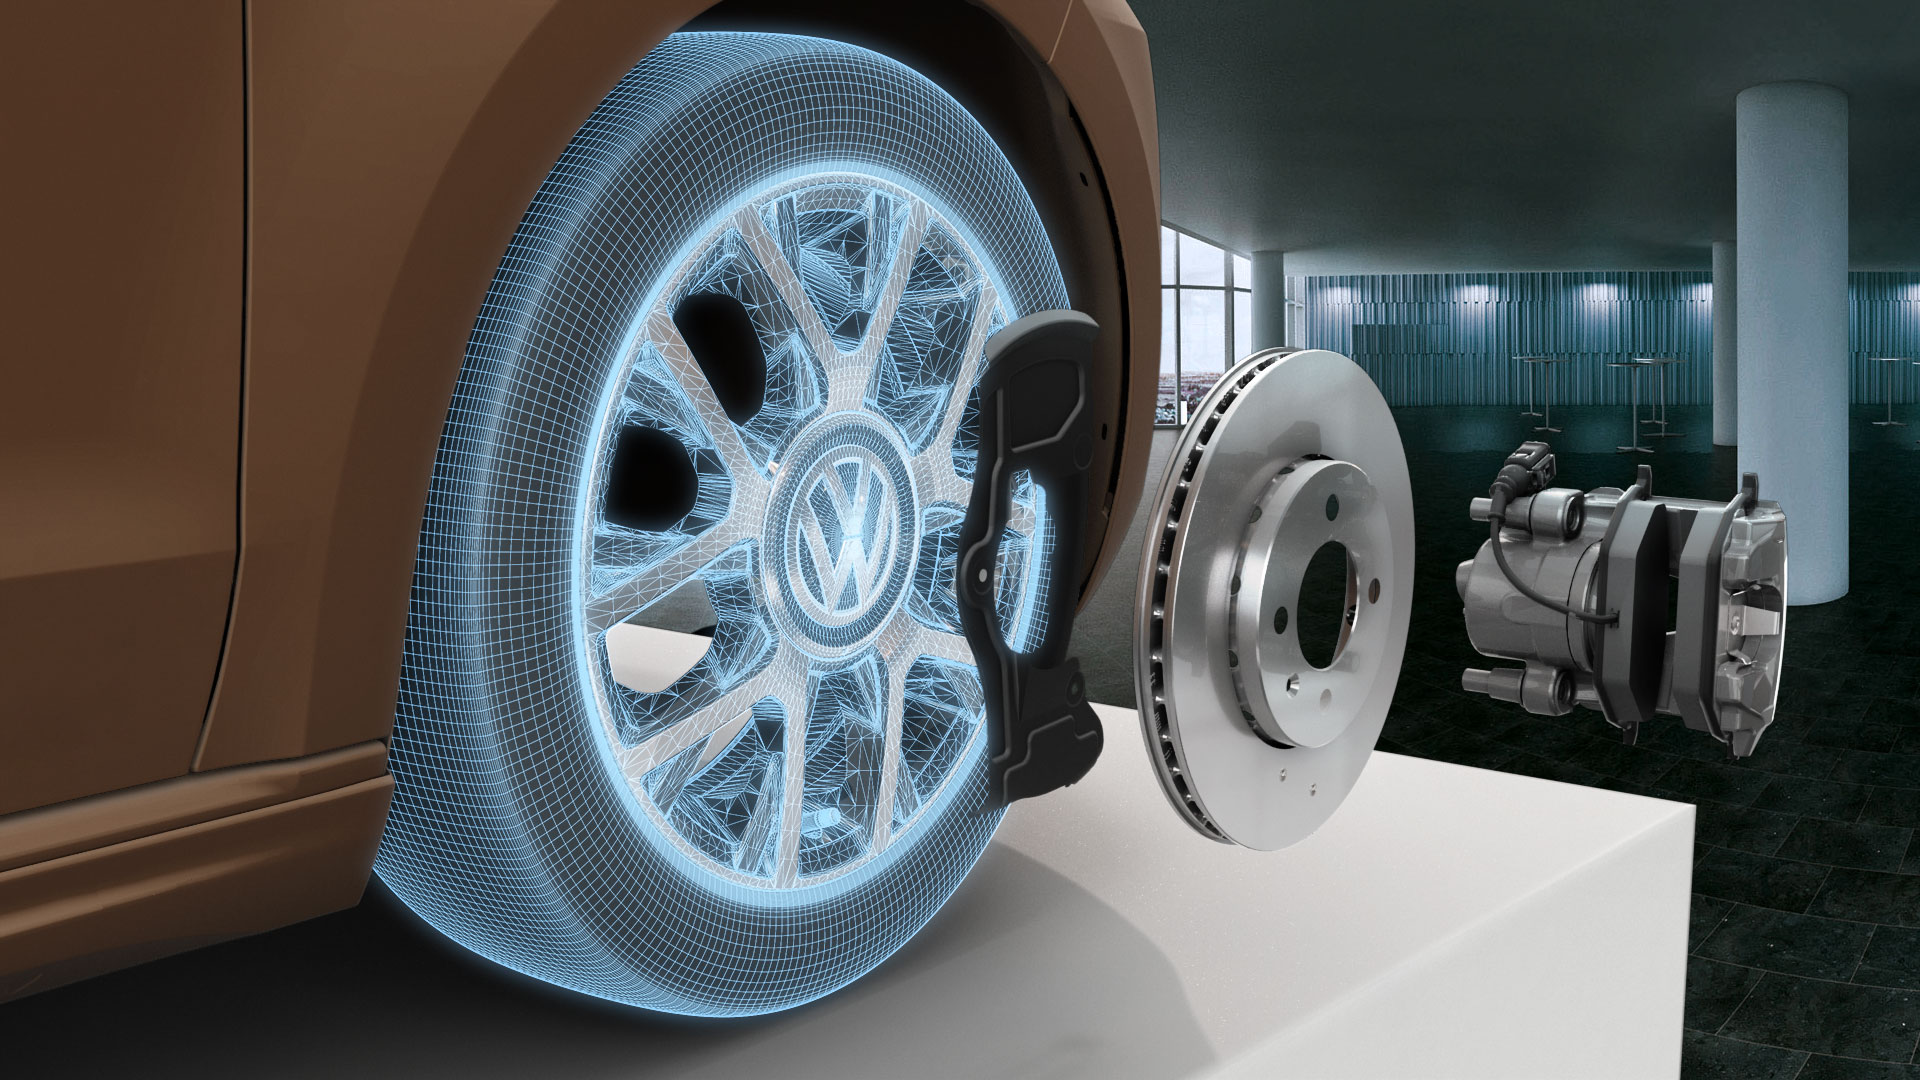
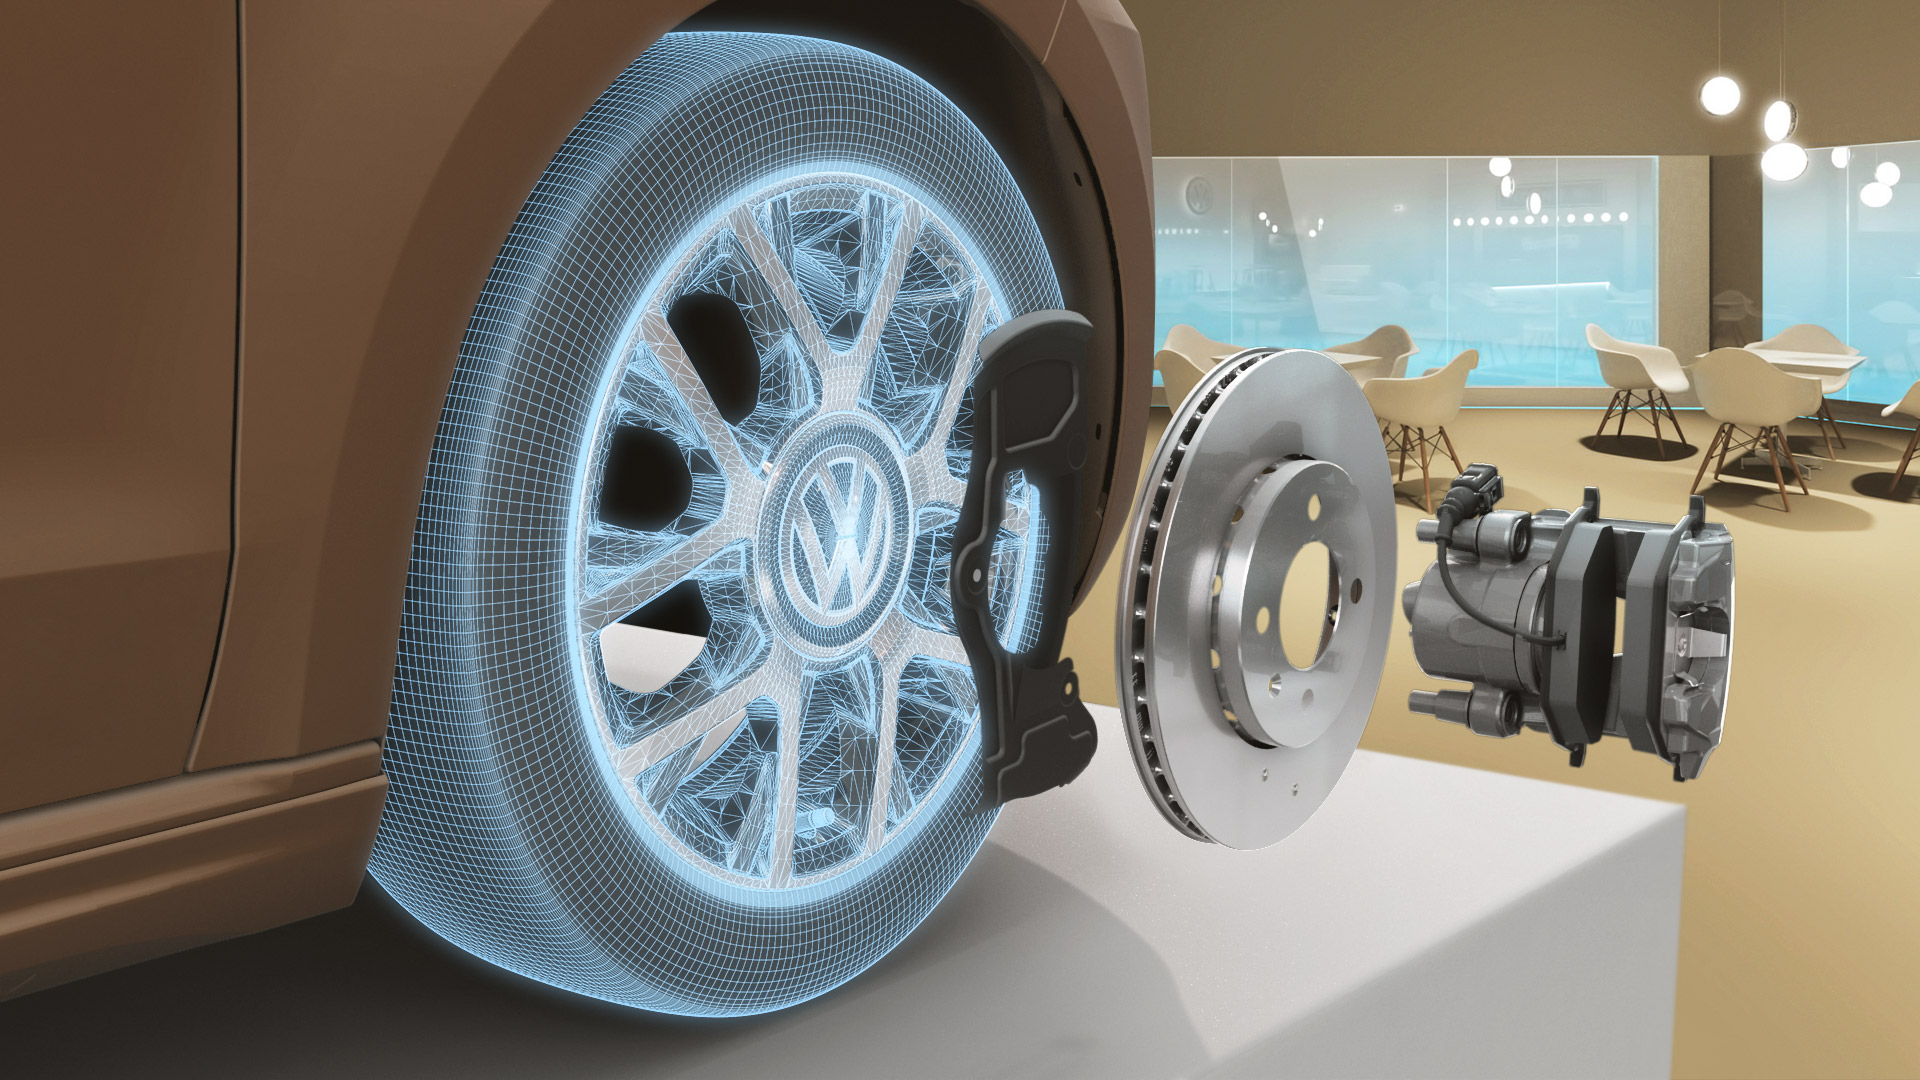
change bgs

diff --git a/en/src/virtualexperience-app/page-press.html b/en/src/virtualexperience-app/page-press.html
@@ -8,6 +8,7 @@
                 display: block;
                 text-align: center;
                 font-size: 1.2em;
+                background-color: #030d13;
                 background-image: url(../../assets/old-images/home/bgsAreas/bg0.jpg);
                 background-position: center top;
                 background-repeat: repeat-x;

diff --git a/src/virtualexperience-app/page-press.html b/src/virtualexperience-app/page-press.html
@@ -8,6 +8,7 @@
                 display: block;
                 text-align: center;
                 font-size: 1.2em;
+                background-color: #030d13;
                 background-image: url(../../assets/old-images/home/bgsAreas/bg0.jpg);
                 background-position: center top;
                 background-repeat: repeat-x;
